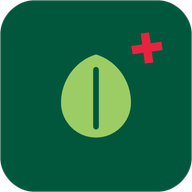
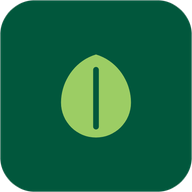
fix(bideplus): quitar el + de los iconos de Bizkaibus+, Metro+ y Euskotren+

Changed region(s): [[0.6875, 0.1562, 0.8438, 0.3438]]

diff --git a/bideplus/sw.js b/bideplus/sw.js
@@ -1,6 +1,6 @@
 importScripts('/js/alerts-store.js');
 
-const CACHE_VERSION = 'v11';
+const CACHE_VERSION = 'v12';
 const CACHE_NAME = 'bizkaibus-shell-' + CACHE_VERSION;
 const API_CACHE_NAME = 'bizkaibus-api-' + CACHE_VERSION;
 const LIVE_API = /\/(departures|live|vehicles|alerts|nearby)(\/|\?|$)/;
